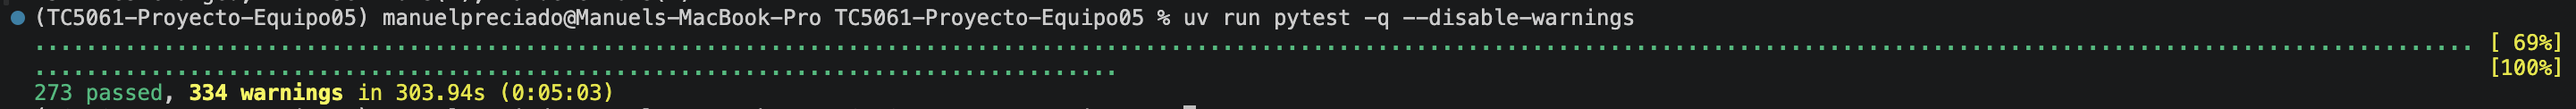
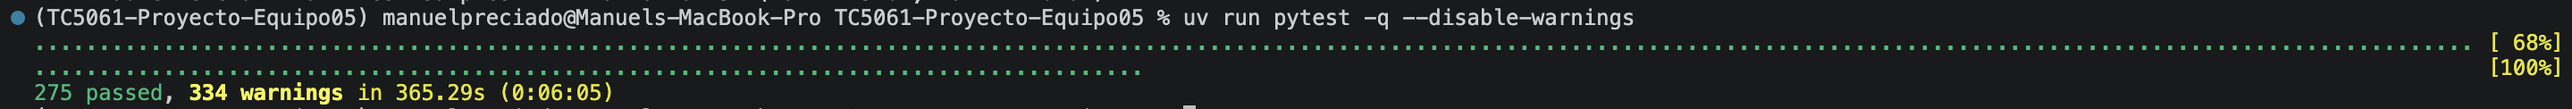
docs(readme): refresh evidence for 275 tests and warnings thresholds

diff --git a/README.md b/README.md
@@ -291,13 +291,13 @@ para hacerlo queda documentado en `resultados.md`.
 
 ### Evidencia
 
-En la última revisión, `make test` terminó con 273 pruebas aprobadas, y `make security` y `make data-checks` también terminaron correctamente. Capturas de la sesión de validación, con el comando que produjo cada una:
+En la última revisión, `make test` terminó con 275 pruebas aprobadas, y `make security` y `make data-checks` también terminaron correctamente. Capturas de la sesión de validación, con el comando que produjo cada una:
 
-- `uv run pytest -q --disable-warnings` → 273 passed
+- `uv run pytest -q --disable-warnings` → 275 passed
   ![pytest](reports/figures/entrega3/01-pytest.png)
 - `make security` → bandit sin hallazgos y pip-audit sin vulnerabilidades
   ![make security](reports/figures/entrega3/03-security.png)
-- reporte HTML de `make data-checks` → `Train Test Samples Mix` cumplida
+- reporte HTML de `make data-checks` → `Train Test Samples Mix` con advertencia (6.75%: WARN arriba de 5%, FAIL arriba de 10%)
   ![DeepChecks train/test drift](reports/figures/entrega3/02-deepchecks.png)
 - `make help` → targets disponibles
   ![make help](reports/figures/entrega3/04-make-help.png)
